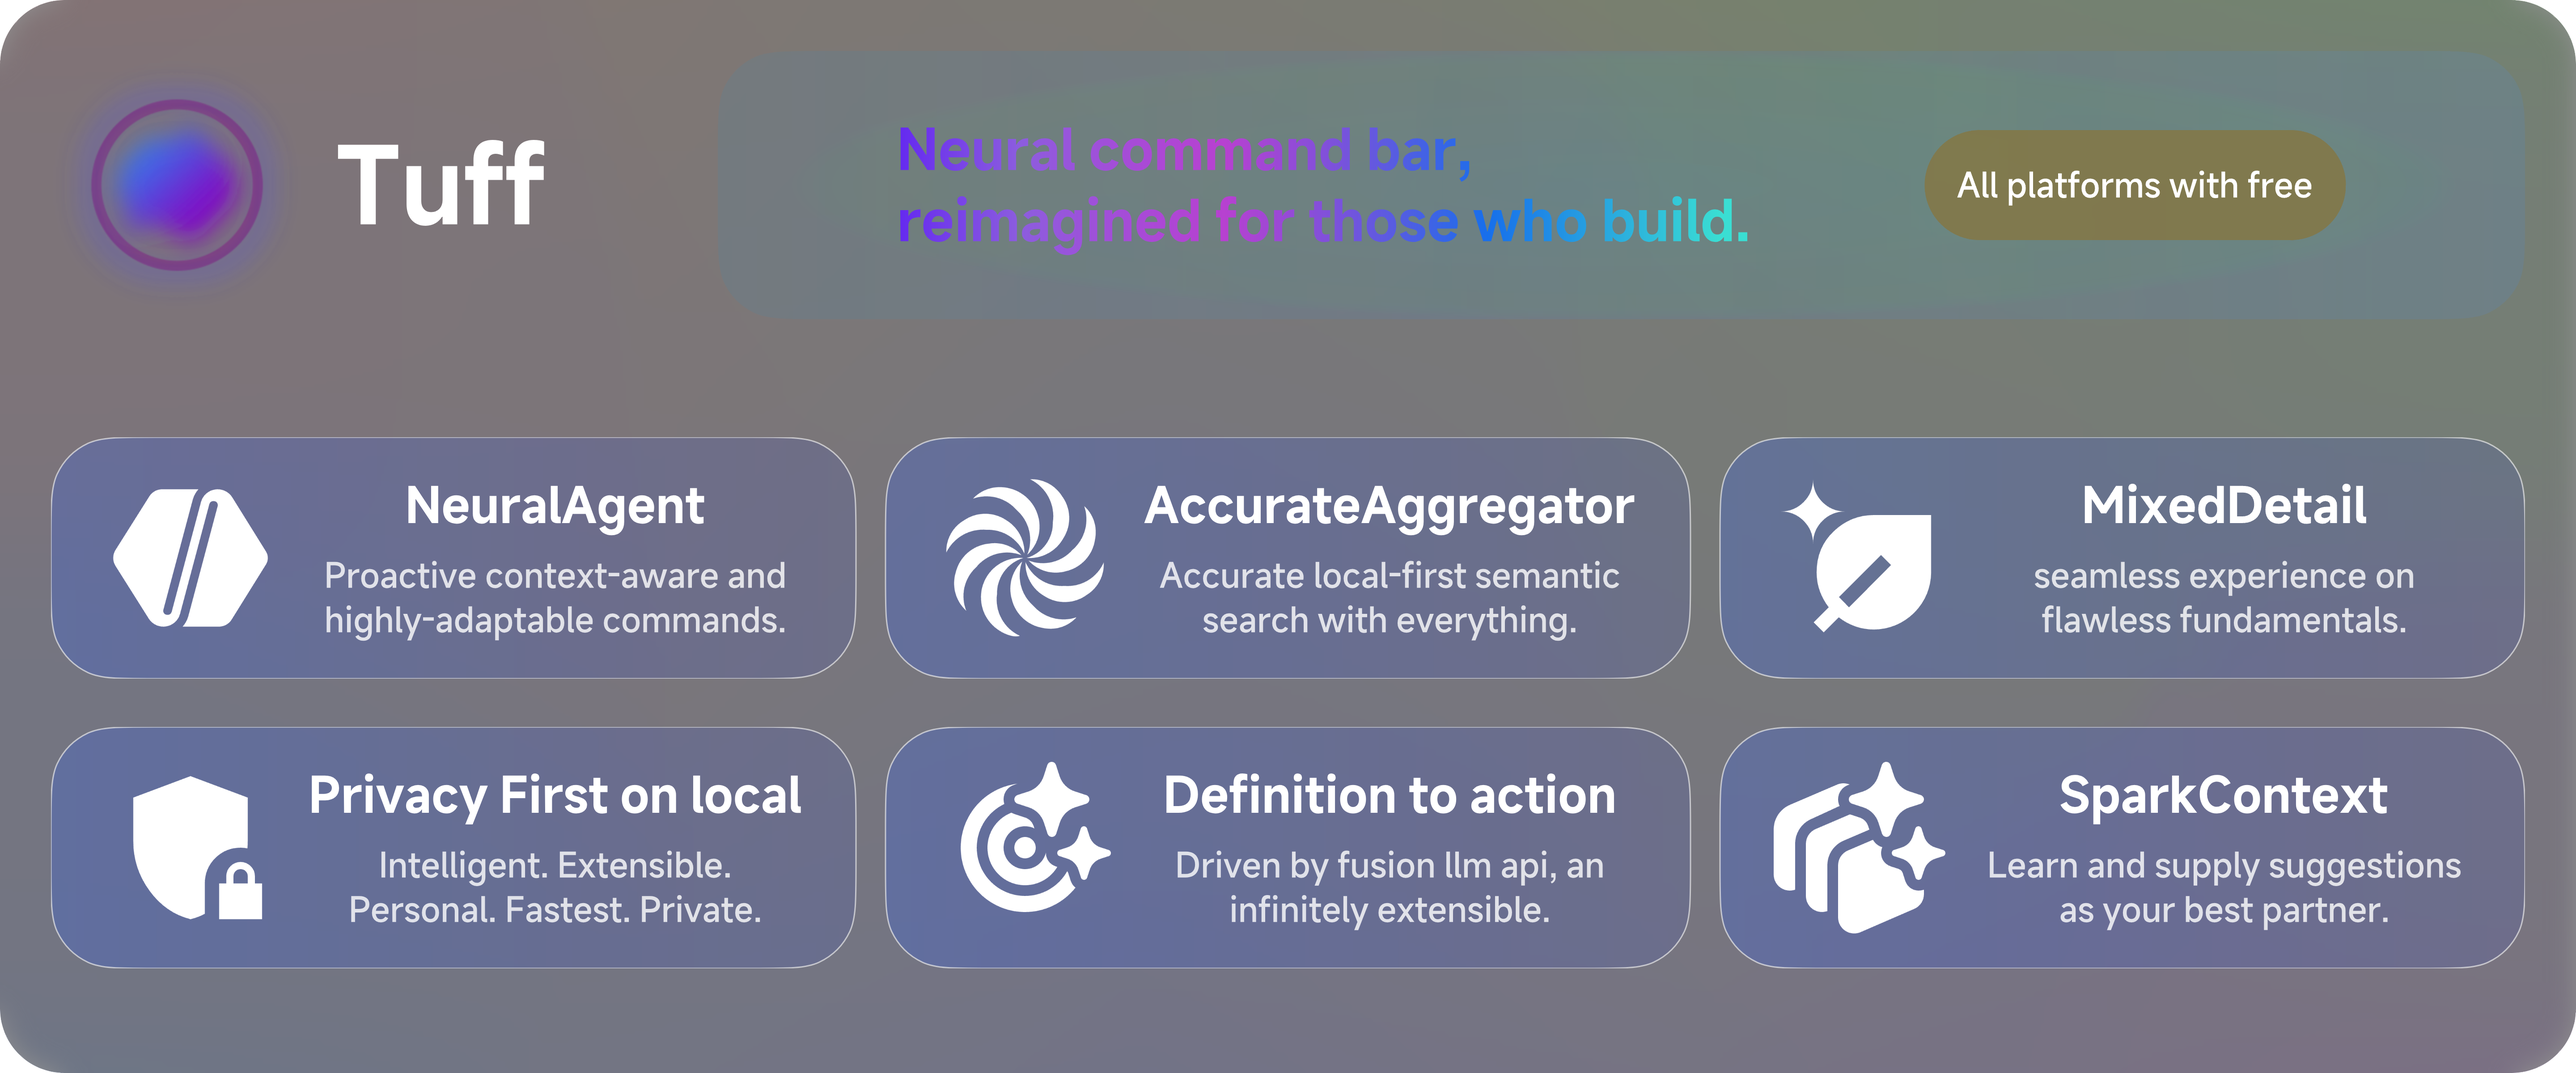
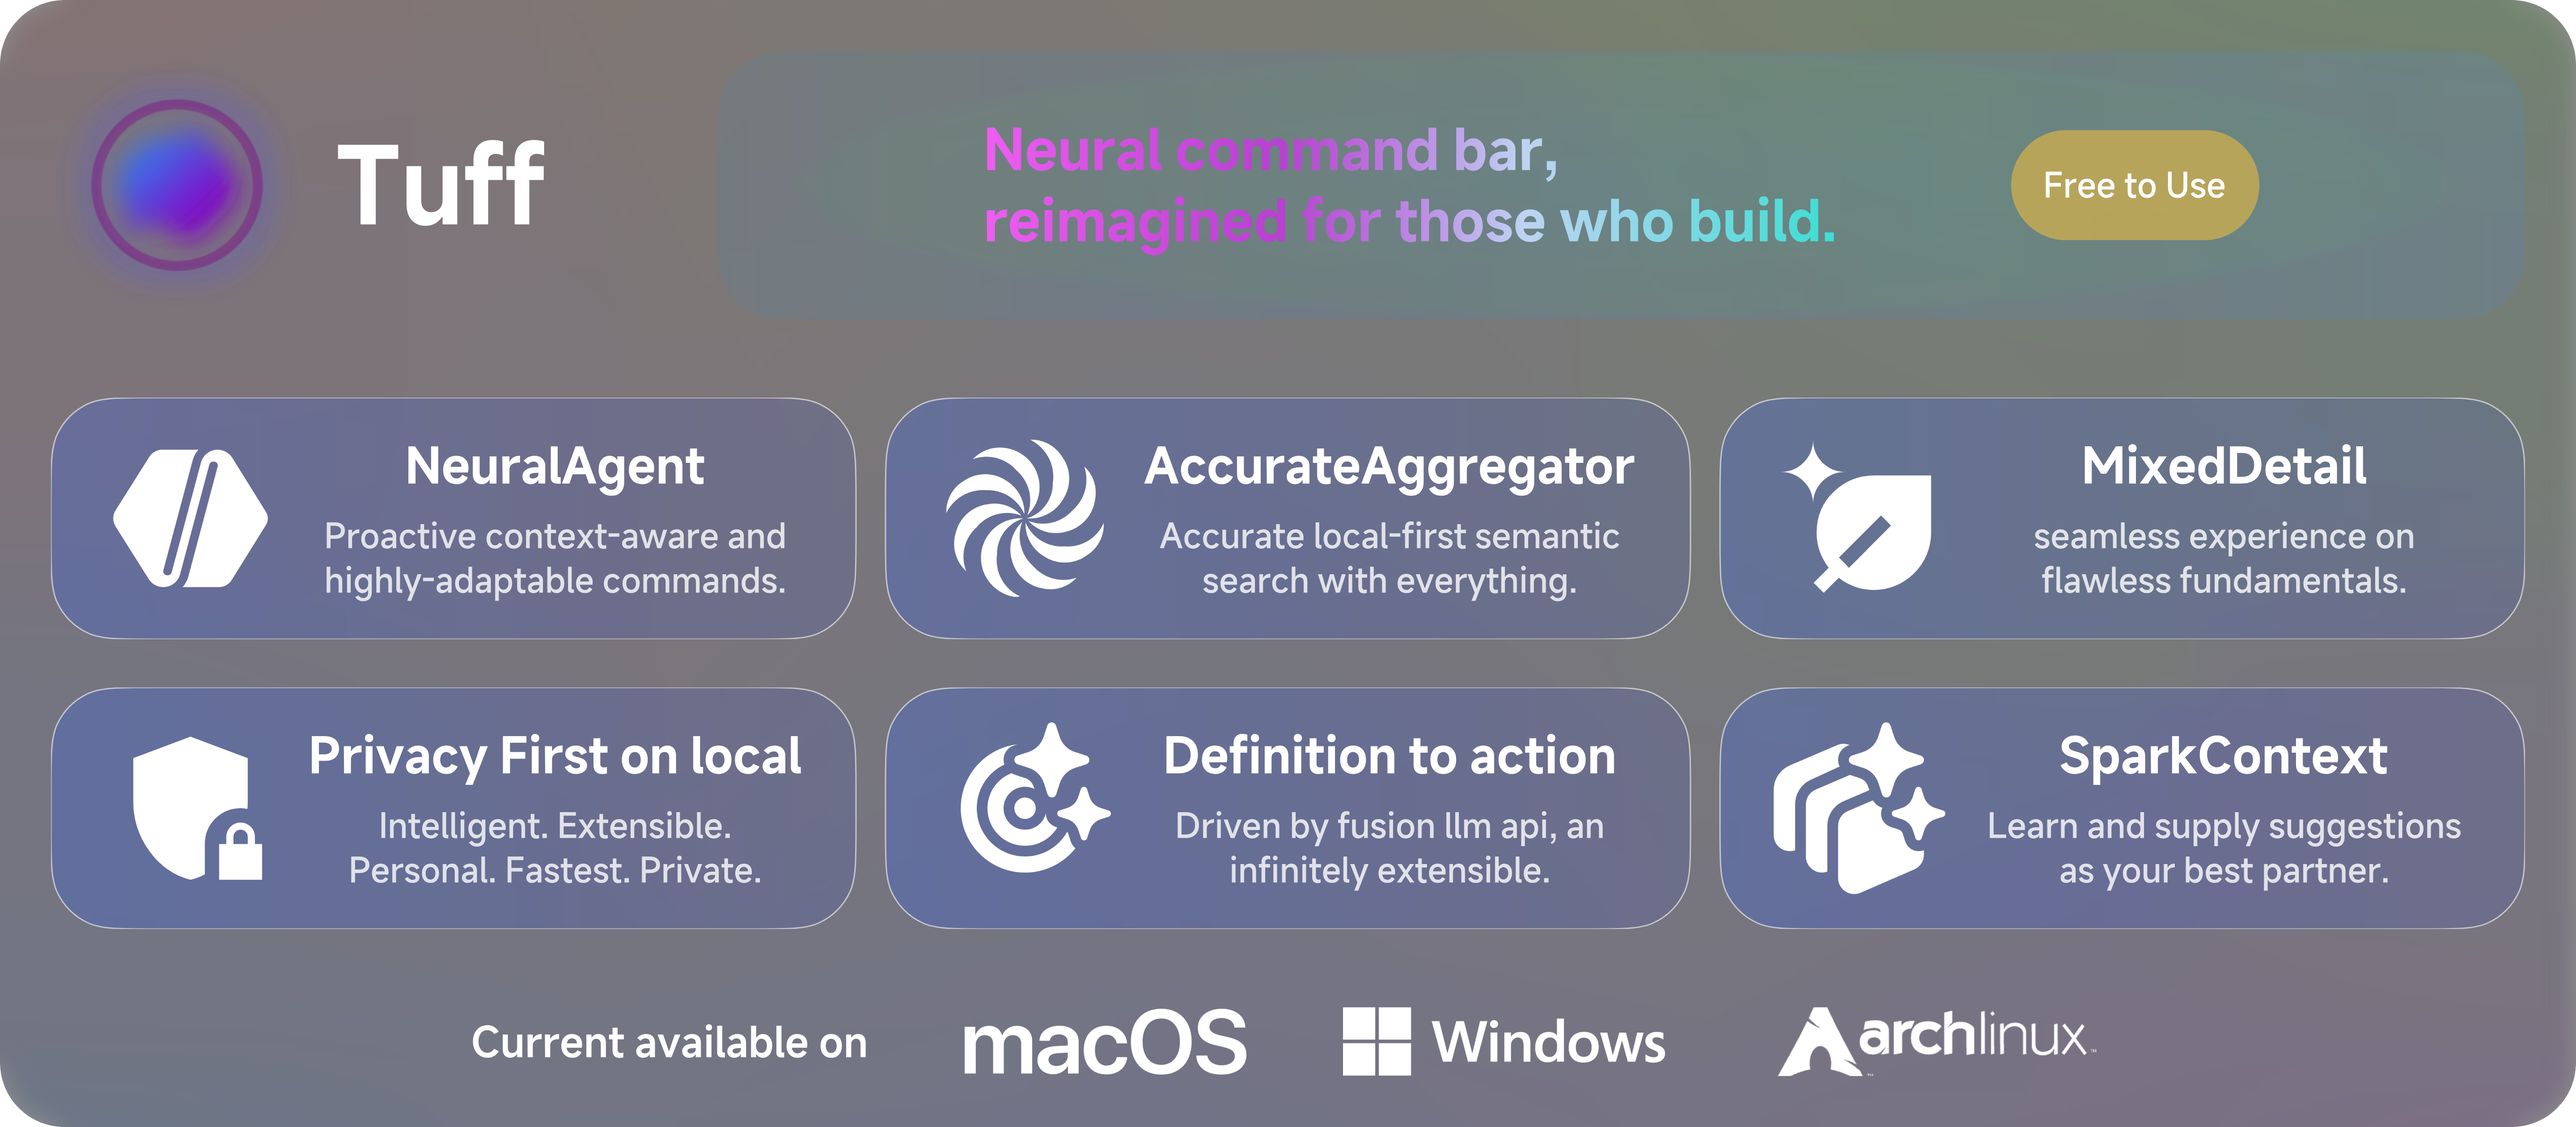
docs: update README with new version number, enhanced features, and improved visuals
This commit updates the README to reflect the new release version 2.4.5 and introduces several new sections highlighting features such as app and file search capabilities, plugin management, and settings. Additionally, it replaces outdated images with new visuals to enhance the overall presentation and user engagement.

diff --git a/README.md b/README.md
@@ -1,13 +1,11 @@
 <div align="center">
 
 ![LogoBanner](./shots/LogoBanner.png)
-
 ---
 
   [![GitHub issues](https://img.shields.io/github/issues/talex-touch/tuff?style=flat-square)](https://github.com/talex-touch/tuff/issues)
   [![GitHub license](https://img.shields.io/github/license/talex-touch/tuff?style=flat-square)](https://github.com/talex-touch/tuff/blob/main/LICENSE)
-  [![GitHub release](https://img.shields.io/badge/release-2.1.0-42B883?style=flat-square)](https://github.com/talex-touch/tuff/releases)
-  [![GitHub release](https://img.shields.io/badge/dev-2.1.0-64391A?style=flat-square)](https://github.com/talex-touch/tuff/discussions/35)
+  [![GitHub release](https://img.shields.io/badge/release-2.4.5-42B883?style=flat-square)](https://github.com/talex-touch/tuff/releases)
   <br>
   English | [简体中文](./README.zh-CN.md)
 </div>
@@ -18,21 +16,31 @@
 
 ## 🔷 Introduction
 
-Tuff (formerly TalexTouch) is a local-first, AI-native, and infinitely extensible desktop command center built with Electron, TypeScript, and Vue.js. It's designed to be a seamless extension of your workflow, helping you find anything and execute any command, faster.
+Tuff (formerly TalexTouch) is a local-first, AI-native, and infinitely extensible desktop command center built with ai-native. It's designed to be a seamless extension of your workflow, helping you find anything and execute any command, faster.
 
-![CoreBoxMain](./shots/CoreBox%20AppRoundMainSo.png)
+### Search all apps on device.
+
+![SearchApplication](./shots/SearchApp.gif)
+
+### Search files immediately.
+
+![SearchFilesImmediately](./shots/SearchFileImmediately.gif)
+
+### Plugin translate.
+
+![TranslatePlugin](./shots/PluginTranslate.gif)
+
+### Manage plugins on your own.
+
+![ManagePlugins](./shots/ManagePlugin.gif)
+
+### Settings page
 
 ![Settings](./shots/SettingsSo.png)
 
 ## 🚀 Background
 
 **We believe your most powerful tool should be as adaptable as you are. Tuff is a new kind of command center—a foundational, open-source layer for your OS, crafted to anticipate your intent and seamlessly integrate with your unique workflow. Hackable to its core and open by design, it’s ready to be shaped by you.**
-
-## � Cross-Platform Support
-
-Tuff is currently available for macOS.
-
-> Support for Windows and Linux is coming soon.
 
 ## 🦋 Beautiful UI Design
 
@@ -97,29 +105,7 @@ Please keep in mind that developers are under no obligation to solve your Issue 
 
 ## ❤ Contribution
 
-### What we use
-
-#### 🌀 Front-end
-
-- Electron ^37.2.4
-- Vue.js: ^3.5.18
-- Vue Router: ^4.5.1
-- Element Plus: ^2.10.4
-- Milkdown: ^7.15.2
-- Lottie-web: ^5.13.0
-
-#### 💠 Back-end
-
-- Node.js: >=22.0.0
-- Koa: ^2.7.0
-
-#### 🔧 Build Tools
-
-- Vite: ^7.0.6
-- Electron Builder: ^25.1.8
-- Sass: ^1.89.2
-
-#### [Here](./.github/docs/contribution/CONTRIBUTING.md)
+#### [Click here to learn more](./.github/docs/contribution/CONTRIBUTING.md)
 
 ### Who works with us
 
